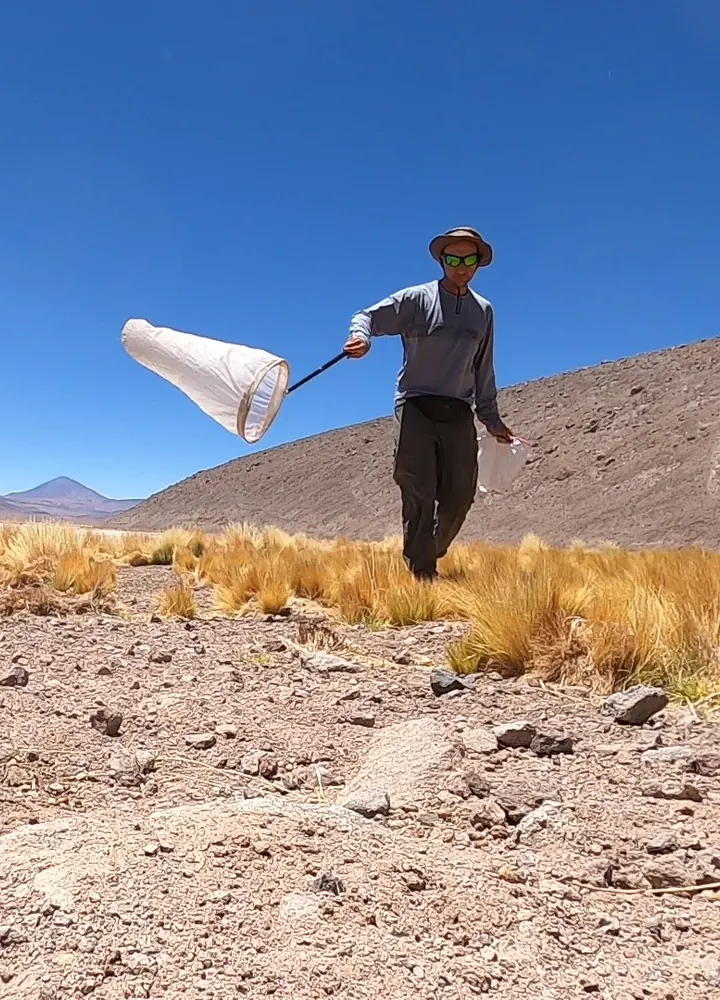
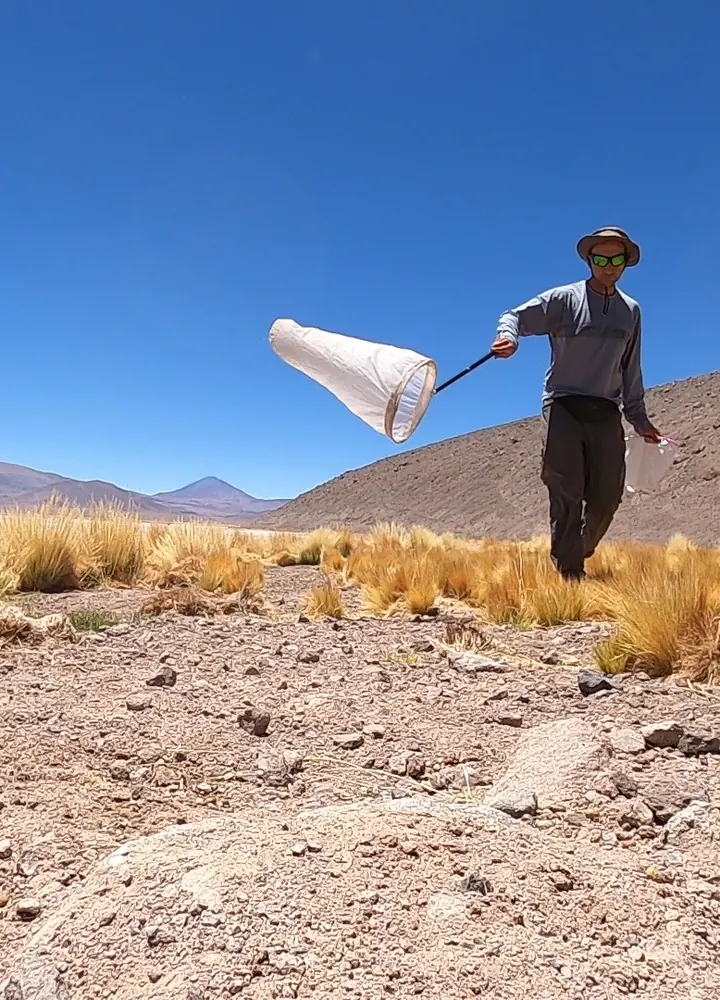
Recompone correctamente el hero movil

diff --git a/css/client-redesign.css b/css/client-redesign.css
@@ -628,14 +628,13 @@ p { margin-bottom: 20px; }
     .main-menu a { padding: 14px 3px; font-size: 1.12rem; }
     .main-menu .nav-contact { margin-top: 14px; padding: 13px 18px; }
 
-    .hero { min-height: clamp(570px, calc(100svh - 74px), 650px); }
-    .hero-content { padding-top: 64px; }
+    .hero { min-height: clamp(500px, calc(100svh - 74px), 650px); }
+    .hero-content { padding-top: clamp(46px, 8svh, 72px); }
     .hero h1 { max-width: 360px; margin-bottom: 20px; font-size: clamp(2.85rem, 12.8vw, 4.25rem); line-height: .9; }
-    .hero-lead { max-width: 350px; margin-bottom: 24px; font-size: .96rem; line-height: 1.5; }
+    .hero-lead { width: min(78vw, 310px); max-width: 100%; margin-bottom: 24px; font-size: .96rem; line-height: 1.5; }
     .hero-actions { width: min(100%, 350px); gap: 9px; }
     .hero-actions .button { width: 100%; }
     .hero-slide img { object-position: center; }
-    .hero-slide:first-child img { object-position: 18% center; }
     .hero-shade { background: linear-gradient(90deg, rgba(13,28,17,.8) 0%, rgba(13,28,17,.53) 56%, rgba(13,28,17,.12) 100%), linear-gradient(0deg, rgba(13,28,17,.55), transparent 58%); }
 
     .intro-grid { gap: 12px; padding-top: 30px; padding-bottom: 30px; }
@@ -736,8 +735,8 @@ p { margin-bottom: 20px; }
 
 @media (max-width: 480px) {
     .capability-grid, .service-detail-grid, .process-grid { grid-template-columns: 1fr; }
-    .hero { min-height: 590px; }
-    .hero-content { padding-top: 46px; }
+    .hero { min-height: clamp(500px, calc(100svh - 74px), 650px); }
+    .hero-content { padding-top: clamp(46px, 8svh, 64px); }
     .hero h1 { font-size: clamp(2.75rem, 13vw, 3.45rem); }
     .page-hero { min-height: 455px; }
     .page-hero h1 { font-size: clamp(2.15rem, 9.6vw, 2.7rem); }